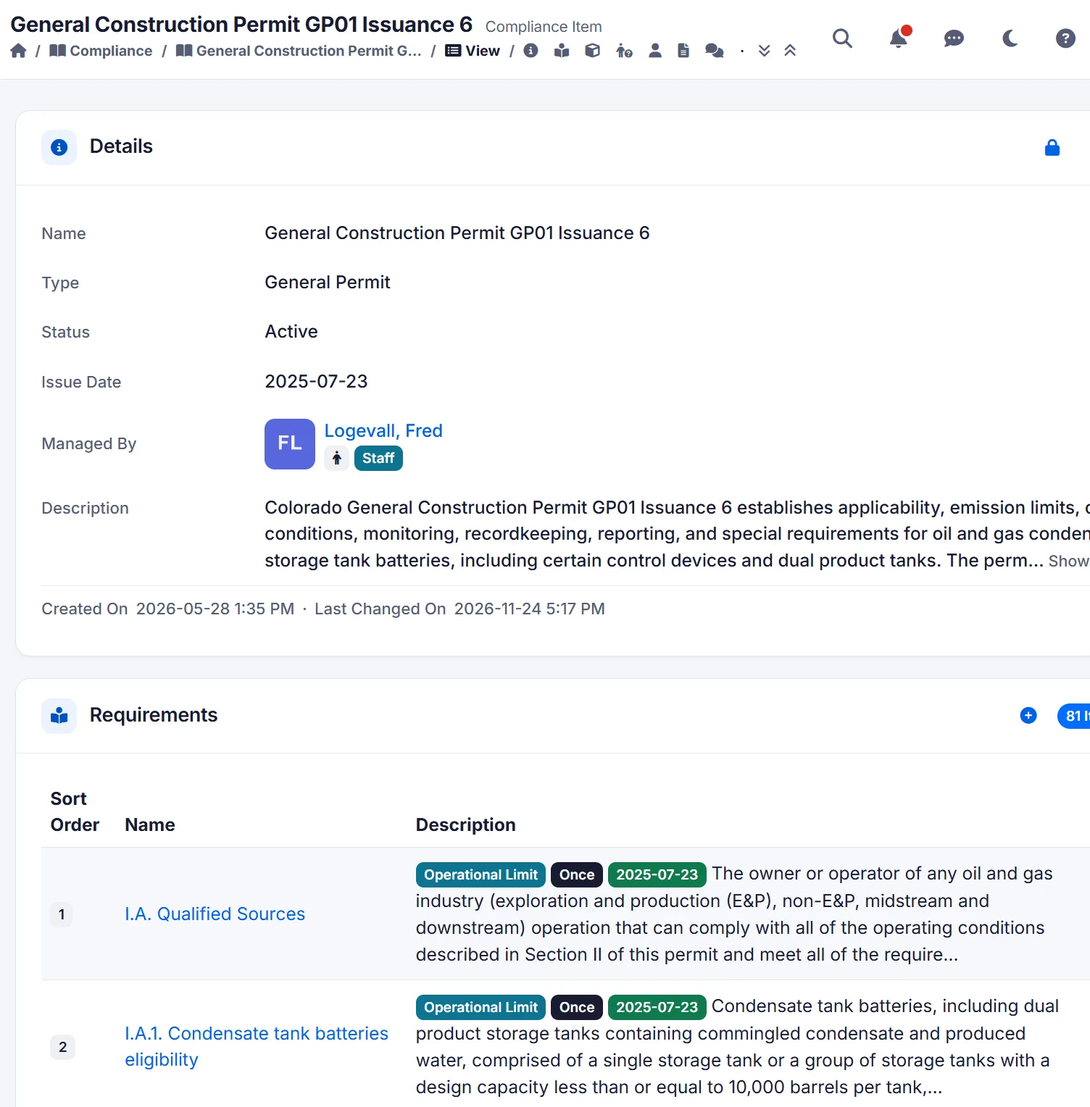
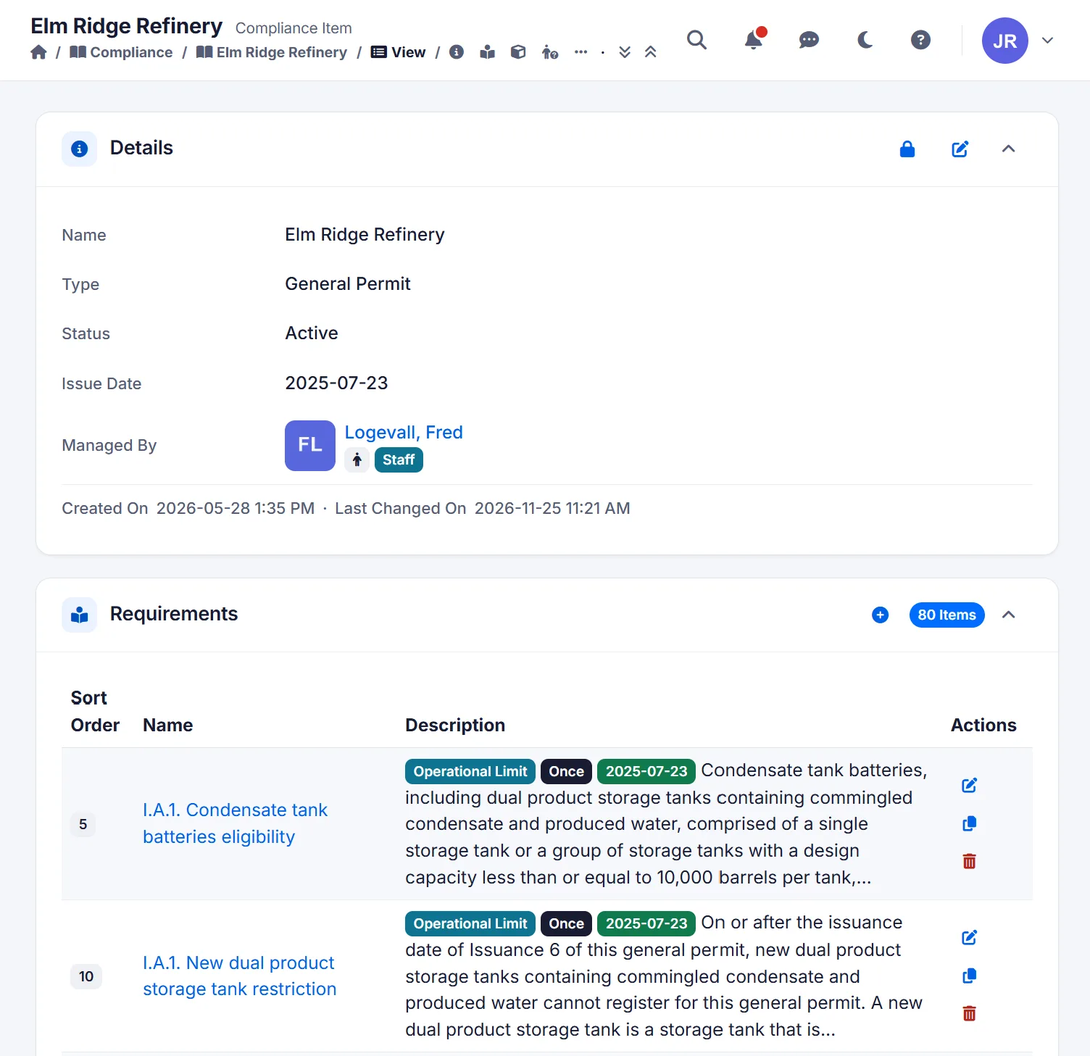
Home film: requirement click-through, Trek dispatch overlay, five chapters
- Compliance: the Elm Ridge Refinery item scrolls to its requirements, the
  cursor opens I.A.1, and the requirement scrolls to its VOC limit; both
  scrolls ease in and out over 2 s (--ease-in-out)
- People: the work order stays behind as the Trek iPad slides in over it,
  with lines from Status and Leak Repair Form to the same fields on the iPad
  and the caption "Dispatch task to assignee for offline completion."
- Remove the Plan the work and Work offline chapters, their images and the
  Trek scene CSS; the loop is about 61 s

diff --git a/src/static/css/main.css b/src/static/css/main.css
@@ -1773,19 +1773,25 @@ button.tour-step:hover { background: var(--color-section-alt); }
    text matches theirs */
 .flow-window--chart { width: min(100%, calc(52rem * 1774 / 1504)); }
 .flow-window--chart .flow-view { aspect-ratio: 1774 / 978; }
-/* Trek scene: the phone beside notes on navy */
-.flow-phone { flex: none; }
-.flow-phone img { display: block; width: 10rem; height: auto; }
-@media (min-width: 48rem) { .flow-phone img { width: 17rem; } }
-.flow-notes { max-width: 22rem; color: var(--color-text); }
-.flow .flow-kicker { margin: 0 0 var(--space-2); font-size: var(--text-label); font-weight: 700; letter-spacing: 0.1em; text-transform: uppercase; color: var(--color-accent-text); }
-.flow-chips { list-style: none; margin: 0; padding: 0; display: grid; justify-items: start; gap: var(--space-1); }
-.flow-chips li { padding: var(--space-1) var(--space-2); border: 1px solid var(--color-panel-line); border-radius: var(--radius-pill); background: var(--color-bg); font-size: var(--text-small); font-weight: 600; }
-.flow .flow-toast-row { display: grid; justify-items: start; margin: var(--space-3) 0 0; }
-.flow-swap > * { grid-area: 1 / 1; }
-.flow-toast { display: inline-flex; align-items: center; gap: var(--space-1); padding: var(--space-1) var(--space-2) var(--space-1) var(--space-1); border-radius: var(--radius-pill); background: var(--color-bg); color: var(--color-text); font-size: var(--text-note); font-weight: 600; border: 1px solid var(--color-panel-line); }
+/* People, dispatch: the work order record stays put and the Trek iPad slides in over its right side, with lines
+   from the record's Status and Leak Repair Form rows to the same fields on the iPad. The layer sits exactly over
+   the window's 16:10 view, so the iPad and the lines are placed in the record's own pixels (1504 x 940): the iPad at
+   x 900, y -50, 746 x 1000, standing 142 px past the window's right edge, which .flow-dispatch leaves room for. */
+.flow-dispatch { width: min(100%, calc(52rem * 1646 / 1504)); }
+.flow-dispatch-box { position: relative; width: calc(100% * 1504 / 1646); }
+.flow-dispatch-box .flow-window { width: 100%; }
+.flow-dispatch-layer { position: absolute; left: 0; right: 0; bottom: 0; aspect-ratio: 1504 / 940; pointer-events: none; }
+.flow-tablet { position: absolute; left: calc(100% * 900 / 1504); top: calc(-100% * 50 / 940); width: calc(100% * 746 / 1504); height: auto; }
+.flow.is-live .flow-tablet:not(.is-on) { translate: 45% 0; }
+.flow.is-ready .flow-dispatch-layer .flow-tablet[data-at]:not(.flow-pointer) { transition: opacity 0.6s var(--ease), translate 1.1s var(--ease); }
+.flow-links { position: absolute; inset: 0; width: 100%; height: 100%; overflow: visible; }
+.flow-links path { fill: none; stroke: var(--color-brand); stroke-width: 4; stroke-linecap: round; stroke-dasharray: 1; stroke-dashoffset: 1; }
+.flow-links .is-on path { stroke-dashoffset: 0; transition: stroke-dashoffset 0.9s var(--ease-in-out); }
+.flow-links circle { fill: var(--color-brand); stroke: var(--color-bg); stroke-width: 3; }
+.flow .flow-caption { position: absolute; left: 3%; bottom: 1.5%; max-width: 42%; margin: 0; padding: var(--space-1) var(--space-2); border: 1px solid var(--color-panel-line); border-radius: var(--radius); background: var(--color-bg); font-size: var(--text-small); font-weight: 600; line-height: 1.35; color: var(--color-dark); }
+/* On phones the window is too small to hold it: the caption sits under the window instead */
+@media (max-width: 47.99rem) { .flow .flow-caption { top: calc(100% + var(--space-2)); bottom: auto; left: 0; max-width: none; font-size: var(--text-note); } }
 .flow .mock-chip { font-size: var(--text-mock); }
-@media (max-width: 47.99rem) { .flow-chips li { font-size: var(--text-note); } }
 
 /* Chapters: one button per scene; the playing one is filled */
 .flow-chapters { list-style: none; margin: 0; padding: 0 var(--space-5) 0 0; display: flex; flex-wrap: wrap; justify-content: center; gap: var(--space-1); }
@@ -1810,16 +1816,18 @@ button.tour-step:hover { background: var(--color-section-alt); }
 .flow.is-ready .flow-view .flow-page[data-shift-at] { transition: opacity 0.5s var(--ease), transform 0.9s var(--ease); }
 /* Compliance split: the permit PDF fills the window, then the digital record slides in from the right to cover two
    thirds of it while the PDF shifts left, keeping its EPA header in the remaining third. The record is at the same
-   scale as every other screen, so its page is 150% of the panel wide (cropped on the right), and it scrolls down to
-   its requirements by --shift. */
+   scale as every other screen, so its page is 150% of the panel wide (cropped on the right); it scrolls down to its
+   requirements by --shift, and the requirement the cursor opens fades in over it and scrolls to its limit. The
+   scrolls ease in and out over 2 s, like a wheel scroll. */
 .flow-split { position: absolute; top: 0; right: 0; bottom: 0; z-index: 1; width: calc(200% / 3); overflow: hidden; border-left: 1px solid var(--color-panel-line); background: var(--color-bg); }
 .flow-split .flow-page { right: auto; width: 150%; }
+.flow.is-ready .flow-view .flow-split .flow-page[data-shift-at] { transition: opacity 0.6s var(--ease), transform 2s var(--ease-in-out); }
 .flow.is-live .flow-view .flow-split[data-at]:not(.is-on) { opacity: 1; translate: 100% 0; }
 .flow.is-ready .flow-view .flow-split[data-at]:not(.flow-pointer) { transition: translate 1s var(--ease); }
 .flow-doc.is-shifted { translate: -19.4% 0; }
 .flow.is-ready .flow-view .flow-doc[data-shift-at]:not(.flow-pointer) { transition: opacity 0.5s var(--ease), translate 1s var(--ease); }
 .flow.is-live [data-at]:not(.is-on) { opacity: 0; }
-.flow.is-live .flow-scene[data-at]:not(.is-on), .flow.is-live .flow-phone:not(.is-on), .flow.is-live .flow-chips li:not(.is-on), .flow.is-live .flow-toast:not(.is-on) { transform: translateY(var(--space-1)); }
+.flow.is-live .flow-scene[data-at]:not(.is-on), .flow.is-live .flow-caption:not(.is-on) { transform: translateY(var(--space-1)); }
 .flow.is-live [data-off].is-off { opacity: 0; pointer-events: none; }
 .flow.is-live .flow-scene:not(.is-on) { pointer-events: none; }
 .flow.is-resetting .flow-stage { opacity: 0; }

diff --git a/src/static/css/tokens.css b/src/static/css/tokens.css
@@ -164,5 +164,6 @@
 
   /* Motion */
   --ease: cubic-bezier(0.2, 0.7, 0.2, 1);
+  --ease-in-out: cubic-bezier(0.65, 0, 0.35, 1);  /* slow start and finish: the film's page scrolls */
   --ease-spring: cubic-bezier(0.3, 1.35, 0.5, 1);  /* slight overshoot: menu icons on hover */
 }

diff --git a/CLAUDE.md b/CLAUDE.md
@@ -41,7 +41,7 @@ node tools/import-media.mjs <source> <dest> [--width 1600] [--quality 80] [--aud
 - **Headline runs and placeholders (`/ldar`):** `.headline-run` puts a heading and its explanation in one text block (bold statement, then a softer `<span>` at the same size), in place of a separate lead. The hero's `.hero-shots` pairs a record card image, built like the `/assets` hero image, with the Trek home screen in a phone frame (38% of the width) standing over its left side. `.mock` draws a product screen as a skeleton (one per `.bento` card except the first, a `.bento-card--split` with the real task calendar set straight on the gray card; no longer tagged "Placeholder"); replace each with a real screenshot before going live. The export card's `.mock-trend-bars` uses `data-play-once`: months rise one at a time in light blue (`--color-chart-highlight`), then dip faint and settle to light gray (`--color-chart`; the emissions card bars use the same pair); 5 s, once (keep it at 5 s or under, or it needs a pause control). Also from the Stripe-style pass: `.feature-runs` (bold title running into its explanation, under an amber tick; `--stack` for one column), `.stat-row` (numbers split by thin rules, not boxed; `--stack` for a column), `.top-cards` (Stripe's enterprise layout in the `.bento-card` look on a six-column grid; `--wide` spans four and puts its diagram in a white `.top-card-panel` above the text, `--fill` is an ice (`--color-surface`) card with navy text for a rule or quote; on `/ldar` the wide card holds `.leak-clock`, bars showing how long subpart W counts a found leak as open by survey cadence; bento and top cards are outlined like `.survey-panel`: white, a hairline border, and the drawing on the `--card-glow` gradient above one rule, with no nested panels or shadows; their sections stay white) and `.story` (client quote card beside its numbers, which are in `--color-muted`: a glass `.story-glass` panel on a `--color-dark-deep` field with an amber glow top left and a blue one bottom right, the quote set left under a small amber quote mark, an optional `<em>` phrase in amber, two faint alpha marks).
 - **Home (outline after Zapier and Samsara, in the `/ldar` and `/assets` look):** `page--spacious`, white sections, headline-run section heads, in this order:
   1. The engine hero (`.hero--engine`), no eyebrow or buttons: the engine centered on top (54rem wide at most), the H1 under it as `.hero-statement`, one statement in two voices (after a studio intro line the user gave; the original home H1, "Where operational technology meets regulatory compliance." with its rotating phrases, is gone): upright Inter 500 in white, with "every asset", "its compliance" and "the people who keep it running" in Inter's true italic, regular weight, in `--color-on-dark-muted`, at `--text-run-hero`. Its background is CSS: deep navy falling to near-black, a brand-blue spotlight under the engine, a cyan haze over the wireframe side, a deep blue glow under the headline, and the drafting grid faded to a pool around the engine. As the hero scrolls away the engine drifts down 28% and fades to 35% (a CSS scroll-driven `view()` animation, only where supported and without reduced motion; this needs `main` and the hero on `overflow: clip`, since `hidden` makes them scroll containers the timeline would track). The engine is `img/assets/hero-engine.webp` (1500 x 1012, WebP with alpha): a generated illustration of a generator set, mirrored so the machine is on the left and the blueprint wireframe on the right, with the generator's watermark cropped off, its floating dashboard panels (gibberish text) painted out, and its blue backdrop keyed out, so the CSS gradient shows around the machine and between the wireframe's lines. The cutout was made with a one-off script (not in the repo); a faint blue haze remains at the seam. An inline SVG in the image's 1800 x 1215 coordinates (`viewBox`, `xMidYMid meet`; the art box has the same aspect ratio) draws our own glass dashboard panels where those were, each linked to a point on the engine: monthly fuel use (`PGEN.FuelUse.MCF.Monthly`, the demo generator's Jun–Oct months and 280.09–327.82 band, from `/assets/telemetry`, but with August at 182.4, 60% of the others, as asked, instead of the demo's 9.66; it turns amber), a daily inspection (load and output, temperatures, pressures, checking off; illustrative), and "Actual / PTE, cumulative" for a NESHAP ZZZZ 1,500 hp engine (NOx 11.3 / 14.5, SOx 0.21 / 0.40, VOC 4.7 / 7.2 tpy: made-up actuals at 78, 52 and 65% of made-up PTE, each with a check for within limit). The script that writes the SVG isn't in the repo; edit the markup by hand. On load (CSS, once, about 3.1 s) the links draw in, the panels rise, the bars grow, August turns amber, the checks tick, the emissions fill and check off. It plays once, so it carries no pause button (the 8 s replay and the pause button were removed at the user's request; looping again would need `data-loop` back for WCAG 2.2.2). On phones the panel text hides. Under the headline, the four industry chips, as links. The bottom padding leaves room for the film, which rises into the hero.
-  1a. The `.flow` film (after Zapier's product film under its hero), rising into the hero by a third of its height (`flow.js` sets `--flow-overlap` from the panel's height; `--space-overlap` without JS): a flat light gray panel (`--color-panel-gray`, a `--color-panel-line` hairline, no shadows on it or anything in it), on a light gray section (`--color-section-alt` from where the panel leaves the hero, so its top third stays over the hero), playing seven chapters (eight scenes) in one spot, about 75 s a loop. Most are real Demo Sandbox screens in a browser window (`.flow-window`, a 16:10 `.flow-view`; the screenshots in `img/home/flow/` are all 1504 x 940 at the app's 100% zoom, so text is the same size in each; narrower captures were extended with their edge pixels; the newer captures were at the same scale and only cropped, sidebar out): (1) Real-time data: the Foreman dashboard on a laptop (`.flow-laptop`, `img/home/flow/dashboard-laptop.webp`, the signed-in user's photo replaced with "JR" initials), a click on the Natural Gas Withdrawal chart, which opens a screen recording of that chart (`video/realtime-chart.mp4`, 1774 x 978, so its `.flow-window--chart` is 1774/1504 as wide as the others) from the moment it loads (`data-start` 1.15 s): a tooltip with the expected value, then a drag that zooms in on 2007–2011 (the anomaly report scene that followed it was removed, and with it `video/report-anomaly-detection.mp4`; it is in git history); (2) Compliance: the first page of an EPA Region 8 Title V permit (`permit-title-v.webp`, set on the app's gray; the operator and station lines, Wind River Resources Corporation and North Hill Creek Compressor Station, aren't clients, so they are replaced with a made-up facility, Elm Ridge Refinery, Meeker County, Colorado, set in the permit's bold serif, with the location block below to match: Piceance Basin, SW ¼ SE ¼ Section 3, T1N, R94W, Meeker County, Colorado), then a split screen: the GP01 Issuance 6 compliance item (`compliance-item.webp`, a taller `.flow-page` in a `.flow-split`) slides in from the right to cover two thirds of the window while the PDF (`.flow-doc`) shifts left to keep its EPA header in view, the cursor comes to rest on the record (no click) and the record scrolls down to its requirements, and the chapter fades into People; (3) People: My Tasks filtered to Open and Roberts, Jane (`my-tasks.webp`), a click on the Elm-02 LDAR work order, its record (`task-ldar.webp`); (4) Plan the work: the task calendar, a click on the first task (winter maintenance for FLT00473), its details; (5) Find the asset: "elm" typed into asset search (`.flow-typed`, a white patch over the word already in the screenshot; this capture was at about 77% zoom, so it is scaled up 1.3x and kept as a taller `.flow-page` that scrolls down to the Search button at `data-shift-at`, by its `--shift`), Search, the Elm-02 list, a click on Elm-02 #02-01H, its record; (6) Fill the form: Create Form, a click opens the Inspections category, a click on + opens Compressor Inspection - Daily (inspector Coll, Steve, a demo user); (7) Work offline: the Trek phone (`img/home/flow/trek-compressor-daily.webp`, the same daily compressor inspection as a draft on the device) with "4 records queued" turning into "synced". Chapter buttons under the scenes mark the playing chapter and jump to any of them (on phones, one swipeable row); each button's `data-chapter` is the index of its chapter's first scene, so a chapter can span several scenes. `static/js/flow.js` (`flow: true`) reads all timing from the markup in milliseconds from the loop start: `data-at` shows an element, `data-off` hides it, a `.flow-pointer`'s `data-path` lists "ms:x,y" stops in % of the window ("!" clicks, with a ring), `.flow-typed` types `data-type` from `data-type-at`, `video.flow-video` plays at `data-rate` from its `data-at` (from `data-start` seconds into the clip), and `data-hold` / `data-cycle` on the panel fade and restart the loop. To retime a scene, edit only the markup. It carries `data-loop` (pause button lower right) and stands still, video included, while paused, offscreen or in a background tab. Without JS or with reduced motion only the `.is-poster` scene shows, on its last screen (the Elm-02 record), with no cursor or chapters; where scripts can run (CSS `scripting: enabled`) the stage stays hidden until `flow.js` starts, and transitions switch on a frame later (`.is-ready`), so nothing flashes. New screenshots: capture at 100% zoom, crop or extend to 1504 x 940 with the target in view, then read each target's x,y as % of the crop.
+  1a. The `.flow` film (after Zapier's product film under its hero), rising into the hero by a third of its height (`flow.js` sets `--flow-overlap` from the panel's height; `--space-overlap` without JS): a flat light gray panel (`--color-panel-gray`, a `--color-panel-line` hairline, no shadows on it or anything in it), on a light gray section (`--color-section-alt` from where the panel leaves the hero, so its top third stays over the hero), playing five chapters (six scenes) in one spot, about 61 s a loop. Most are real Demo Sandbox screens in a browser window (`.flow-window`, a 16:10 `.flow-view`; the screenshots in `img/home/flow/` are all 1504 x 940 at the app's 100% zoom, so text is the same size in each; narrower captures were extended with their edge pixels; the newer captures were at the same scale and only cropped, sidebar out): (1) Real-time data: the Foreman dashboard on a laptop (`.flow-laptop`, `img/home/flow/dashboard-laptop.webp`, the signed-in user's photo replaced with "JR" initials), a click on the Natural Gas Withdrawal chart, which opens a screen recording of that chart (`video/realtime-chart.mp4`, 1774 x 978, so its `.flow-window--chart` is 1774/1504 as wide as the others) from the moment it loads (`data-start` 1.15 s): a tooltip with the expected value, then a drag that zooms in on 2007–2011 (the anomaly report scene that followed it was removed, and with it `video/report-anomaly-detection.mp4`; it is in git history); (2) Compliance: the first page of an EPA Region 8 Title V permit (`permit-title-v.webp`, set on the app's gray; the operator and station lines, Wind River Resources Corporation and North Hill Creek Compressor Station, aren't clients, so they are replaced with a made-up facility, Elm Ridge Refinery, Meeker County, Colorado, set in the permit's bold serif, with the location block below to match: Piceance Basin, SW ¼ SE ¼ Section 3, T1N, R94W, Meeker County, Colorado), then a split screen: the Elm Ridge Refinery compliance item (`compliance-item.webp`, 1504 x 1457, a taller `.flow-page` in a `.flow-split`; the signed-in user's photo replaced with "JR" initials) slides in from the right to cover two thirds of the window while the PDF (`.flow-doc`) shifts left to keep its EPA header in view, the record scrolls down to its requirements, the cursor clicks I.A.1. Condensate tank batteries eligibility, and the requirement (`compliance-requirement.webp`, 1504 x 1499) fades in over it and scrolls down to its limit (a rolling 12-month VOC total of at most 4.20 ton/yr). Both scrolls ease in and out over 2 s (`--ease-in-out`). In the split the record page is the window's full width from a third of the way in, so a point at x px on it is at 33.33% + x/1504 of the window; (3) People: My Tasks filtered to Open and Roberts, Jane (`my-tasks.webp`), a click on the Elm-02 LDAR work order, its record (`task-ldar.webp`), then, with the record staying in place behind it, that work order in Trek on an iPad slides in over the record's right side (`trek-task-ipad.webp`, the Trek screen in a bezel drawn by a one-off script, 900 x 1206 with alpha), lines draw from the record's Status and Leak Repair Form rows to the same fields on the iPad, and a caption reads "Dispatch task to assignee for offline completion." (under the window on phones). `.flow-dispatch-layer` sits exactly over the window's 16:10 view, so the iPad (x 900, y -50, 746 x 1000) and the line ends are in the record's own 1504 x 940 pixels; `.flow-dispatch` leaves room for the 142 px the iPad stands past the window; (4) Find the asset: "elm" typed into asset search (`.flow-typed`, a white patch over the word already in the screenshot; this capture was at about 77% zoom, so it is scaled up 1.3x and kept as a taller `.flow-page` that scrolls down to the Search button at `data-shift-at`, by its `--shift`), Search, the Elm-02 list, a click on Elm-02 #02-01H, its record; (5) Fill the form: Create Form, a click opens the Inspections category, a click on + opens Compressor Inspection - Daily (inspector Coll, Steve, a demo user), which ends the loop. The Plan the work (task calendar) and Work offline (Trek phone) chapters were removed, with their images; they are in git history. Chapter buttons under the scenes mark the playing chapter and jump to any of them (on phones, one swipeable row); each button's `data-chapter` is the index of its chapter's first scene, so a chapter can span several scenes. `static/js/flow.js` (`flow: true`) reads all timing from the markup in milliseconds from the loop start: `data-at` shows an element, `data-off` hides it, a `.flow-pointer`'s `data-path` lists "ms:x,y" stops in % of the window ("!" clicks, with a ring), `.flow-typed` types `data-type` from `data-type-at`, `video.flow-video` plays at `data-rate` from its `data-at` (from `data-start` seconds into the clip), and `data-hold` / `data-cycle` on the panel fade and restart the loop. To retime a scene, edit only the markup. It carries `data-loop` (pause button lower right) and stands still, video included, while paused, offscreen or in a background tab. Without JS or with reduced motion only the `.is-poster` scene shows, on its last screen (the Elm-02 record), with no cursor or chapters; where scripts can run (CSS `scripting: enabled`) the stage stays hidden until `flow.js` starts, and transitions switch on a frame later (`.is-ready`), so nothing flashes. New screenshots: capture at 100% zoom, crop or extend to 1504 x 940 with the target in view, then read each target's x,y as % of the crop.
   2. A proof band (`.section--proof`, with more room above it; `.proof-head`, `.proof-logos`, `.proof-photo`, after Stripe's enterprise block): "Proven where the work happens." alone (its "Reported by clients…" line was cut), the five client logos in one row on white, a wide field photo (`img/spcc/berm-inspection.webp`, 21:9, 4:3 on phones) with a phone (`img/home/spcc-inspection-phone.webp`, an SPCC Annual Inspection form at the A100 Tank Battery; Doe, Jamie is demo data) rising from its bottom edge on the right, then `.proof-stats`: three client numbers in one row, Stripe-style (the figure bold in navy running into its label in gray, the client under it; they still count up), one per industry (Laramie Energy, 437th MXS, Water Mission).
   3. The key features as one `.rail--story` carousel, the same component as the `/assets` "Follow the record deeper" cards: nine abstract CSS art tiles (the `.rail-card-media--<topic>` variants, each with the feature's Platform menu icon glowing white and its name in the lower left), then one line and a "See <module>" link, in capture, act, report order: Smart Forms & Tasks, Trek mobile app, Asset registry (Unified Asset Intelligence), Workflow Automation, Telemetry, AI Assistants, Compliance, Emissions, Reporting (Security has its own band). The lines are the Platform menu blurbs from `nav.json`, except AI Assistants, Compliance, Emissions and Reporting, which have their own wording on home. No eyebrows. On every story rail the line and link under a tile are inset to start where the name inside it does. The product screens that sat here are kept for later in `img/home/`: `capture-tablet-record.webp` (the Elm-02 Separator record on a tablet) and `capture-devices.webp` (phone, laptop and tablet); the Act and Report screens were `assets/hero-asset-record-screen.webp` and `compliance/electronic-submissions.webp`. The two concrete AI lines live here: anomaly flags on telemetry (Act) and the assistant that shows what it read (Report).
   4. "Follow one finding": a `.stepper` (Zapier's interactive explainer) walking a leak at Skid A-114 through four drawn panels that share that asset (form, workflow, one data model, requirement mapping).
@@ -148,7 +148,7 @@ The preview's `robots.txt` isn't at a domain root, so crawlers ignore it; the pa
 
 **Copy to review:**
 - `nav.json` intros and blurbs; `/programs` page text.
-- Home: copy written for the outline redesign. The hero headline ("Operational intelligence for every asset…") is the user's wording. The hero image is AI-generated (an illustration, not a client asset or a product screen); replace it with a real render or photo if one is wanted before going live. Its panels' emissions figures (NOx, SOx, VOC actual / PTE for a 1,500 hp NESHAP ZZZZ engine) and August's 182.4 mcf are made up; confirm they read as plausible to whoever owns regulatory claims, or swap in demo record values. The flow film shows Demo Sandbox screens; real-looking site names in its task calendar (Grand Valley CS, Valencia WRP Outfall 100, BMGG Pipelines, 437AMXS) should be confirmed as demo data before going live, as should the names in the newer chapters: Roberts, Jane (My Tasks, the dashboard), Logevall, Fred (Managed By on the compliance item), GP-10 facility and SAP_TCO_8734284 (My Tasks), Howden Compressor (equipment, not a company claim). The Title V permit in the Compliance chapter is a real EPA permit with its operator and station lines replaced by a made-up Elm Ridge Refinery, Meeker County, Colorado, and a made-up location block (Piceance Basin, Section 3, T1N, R94W) to match (Meeker is a town in Rio Blanco County; Colorado has no Meeker County, and EPA Region 8 issues part 71 permits only in Indian country, so a Colorado refinery off-reservation would hold a state permit instead); confirm it may be shown. So should the profile photos signed in on the saved `img/home/capture-tablet-record.webp` and `capture-devices.webp` ("Roberts, Jane" on the laptop), if they go back on the page. The other new lines are the section heads (proof band, chapters, "Follow one finding", integrations, "Clients on the record", security), the chapter titles and feature runs (taken from `/forms`, `/assets`, `/ldar` and the panel images), the stepper steps (from the Skid A-114 panels) and the module links that replaced "Learn more". "Water Mission: 34,632 maintainable assets across 57 countries" combines two `/assets` figures; it shows scale, not an outcome, so get an outcome number. The Laramie quote is still the generic "game-changer" line (see `/ldar` proof), and its case-study link is the PDF `/oilandgas` pairs with that quote. Neither chapter Act nor Report has a client quote; add one each when available. The security band paraphrases `/security`; keep it in step with that page.
+- Home: copy written for the outline redesign. The hero headline ("Operational intelligence for every asset…") is the user's wording. The hero image is AI-generated (an illustration, not a client asset or a product screen); replace it with a real render or photo if one is wanted before going live. Its panels' emissions figures (NOx, SOx, VOC actual / PTE for a 1,500 hp NESHAP ZZZZ engine) and August's 182.4 mcf are made up; confirm they read as plausible to whoever owns regulatory claims, or swap in demo record values. The flow film shows Demo Sandbox screens; confirm these names as demo data before going live: Roberts, Jane (My Tasks, the dashboard), Duong, Tom (an assignee on the iPad work order, a real Assetas name; confirm it may stay or swap in a demo user), Logevall, Fred (Managed By on the compliance item), GP-10 facility and SAP_TCO_8734284 (My Tasks), Howden Compressor (equipment, not a company claim). The Title V permit in the Compliance chapter is a real EPA permit with its operator and station lines replaced by a made-up Elm Ridge Refinery, Meeker County, Colorado, and a made-up location block (Piceance Basin, Section 3, T1N, R94W) to match (Meeker is a town in Rio Blanco County; Colorado has no Meeker County, and EPA Region 8 issues part 71 permits only in Indian country, so a Colorado refinery off-reservation would hold a state permit instead); confirm it may be shown. So should the profile photos signed in on the saved `img/home/capture-tablet-record.webp` and `capture-devices.webp` ("Roberts, Jane" on the laptop), if they go back on the page. The other new lines are the section heads (proof band, chapters, "Follow one finding", integrations, "Clients on the record", security), the chapter titles and feature runs (taken from `/forms`, `/assets`, `/ldar` and the panel images), the stepper steps (from the Skid A-114 panels) and the module links that replaced "Learn more". "Water Mission: 34,632 maintainable assets across 57 countries" combines two `/assets` figures; it shows scale, not an outcome, so get an outcome number. The Laramie quote is still the generic "game-changer" line (see `/ldar` proof), and its case-study link is the PDF `/oilandgas` pairs with that quote. Neither chapter Act nor Report has a client quote; add one each when available. The security band paraphrases `/security`; keep it in step with that page.
 - Off-voice: H1 and description on `/telemetry` (ends "with us!") and `/reporting`; calls to action in the `/reporting` and `/trek` descriptions.
 - Titles over 60 characters (`/industry`, `/ldar`, `/spcc`) or not in "<What it is> | Assetas" form (`/about`, `/pricing`, `/trek`).
 
